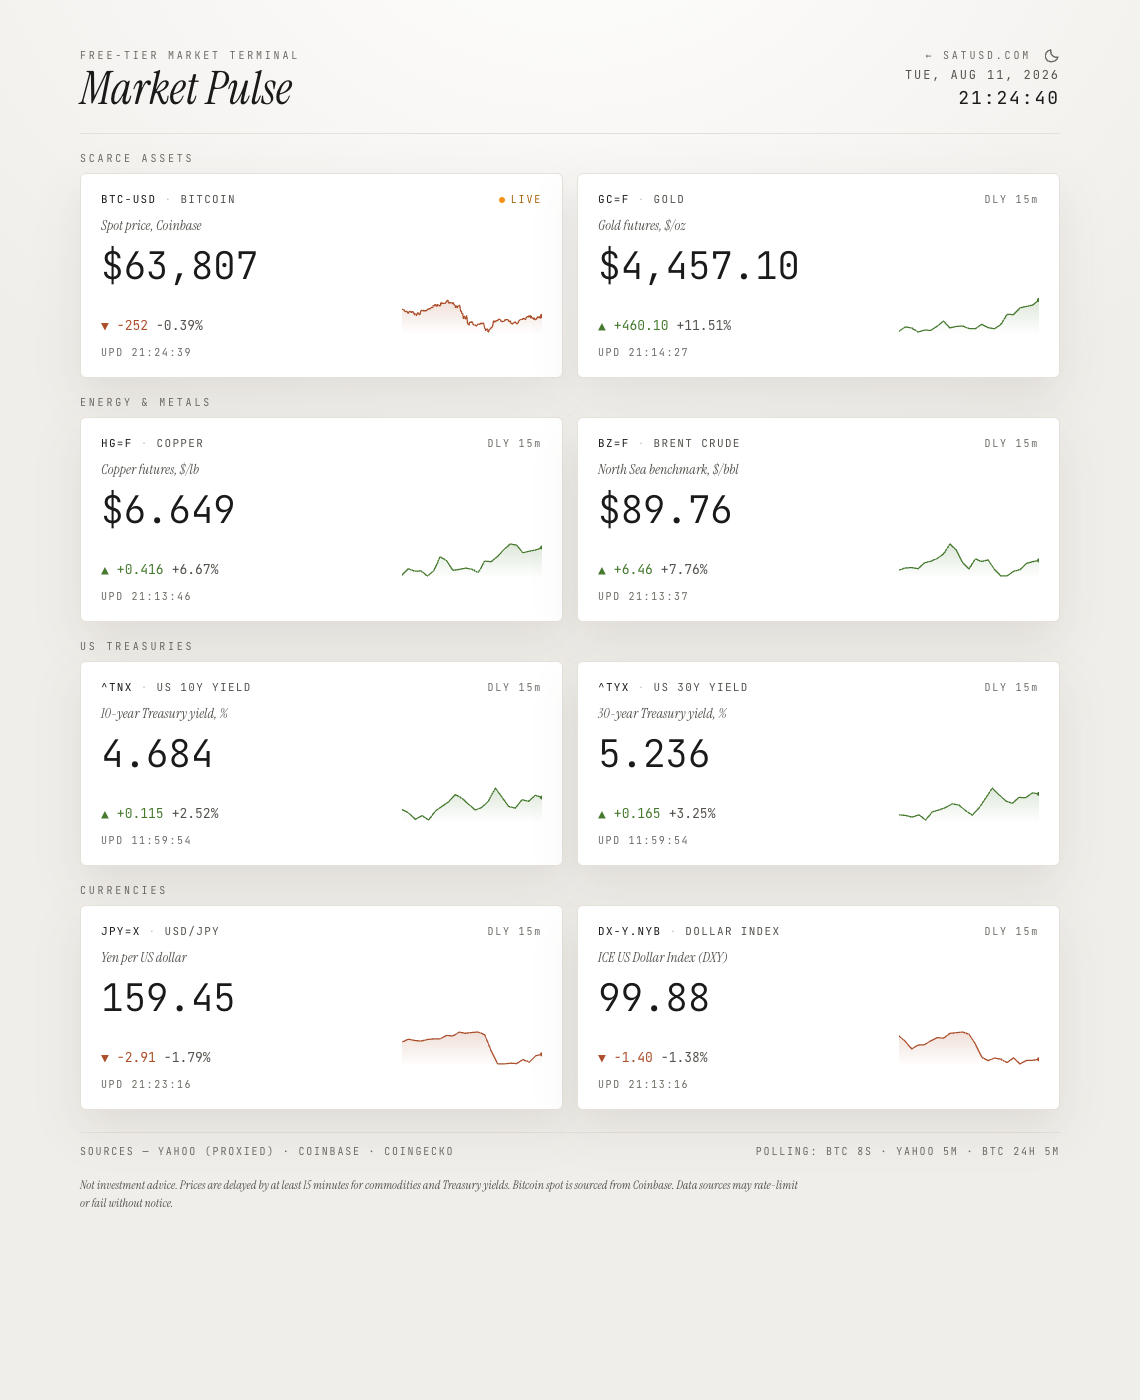
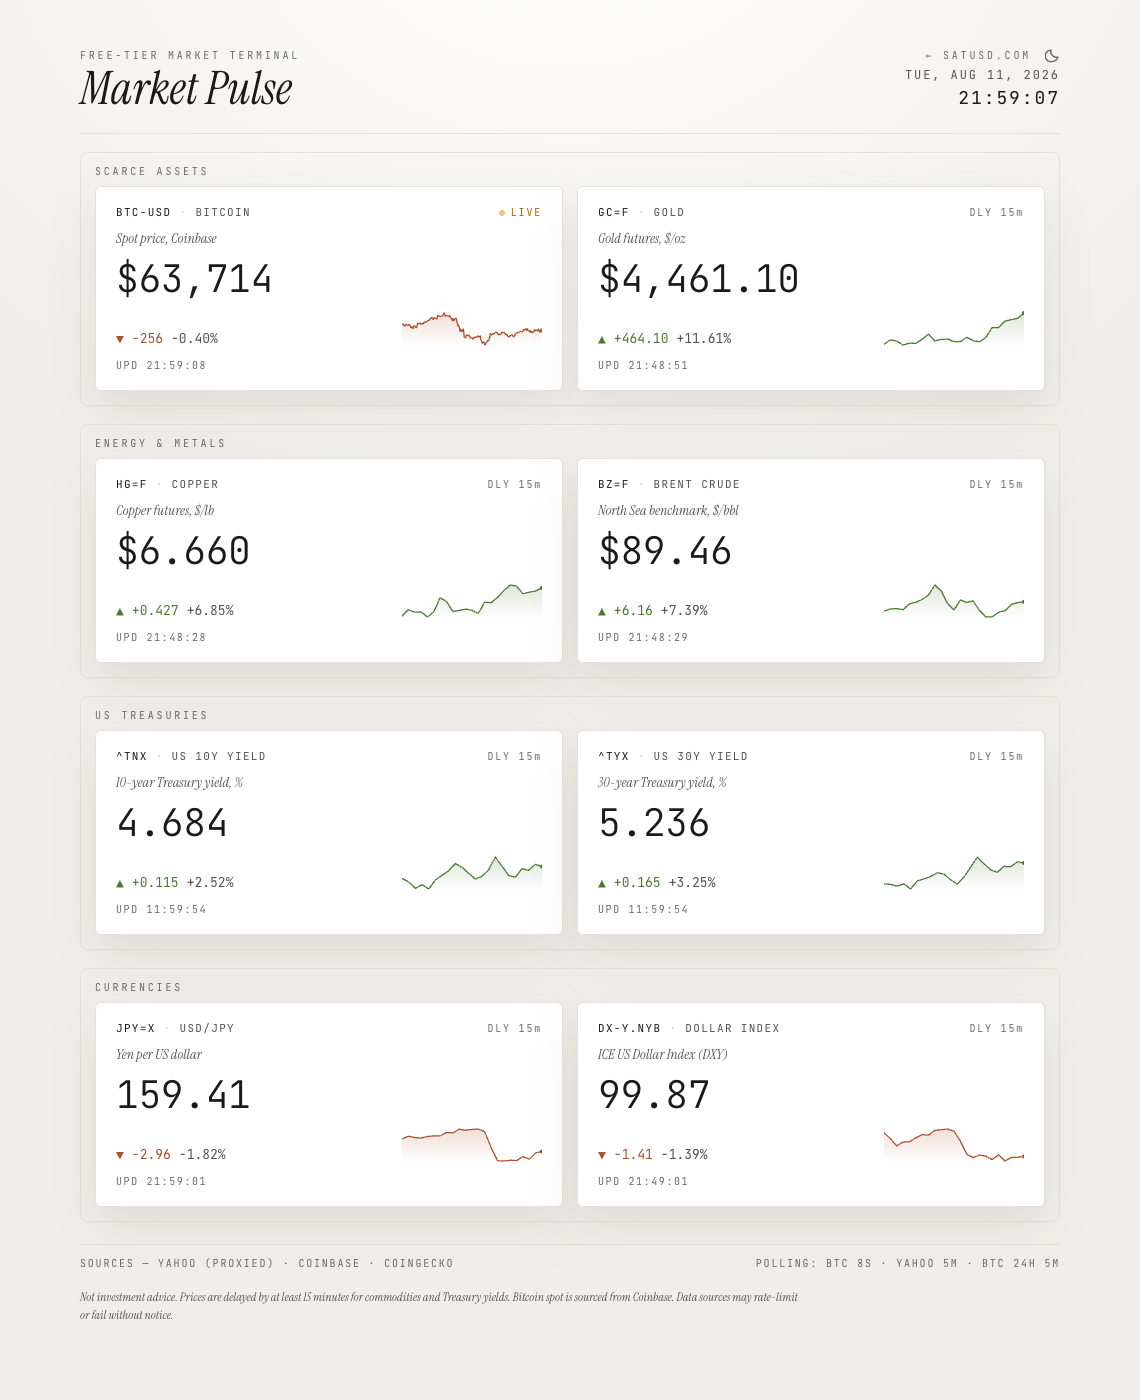
Frame each category section in a hairline box
The wide two-abreast layout put four tiles on one row with only the
floating labels separating categories; a 1px --border box (label inside,
themed like the tiles) makes each category boundary legible. Wide-mode
page padding and section margins tightened to absorb the added height --
re-verified no-scroll at 1574x798, 1440x815, and 1920x950, and no
horizontal overflow at 375px.

diff --git a/src/styles.css b/src/styles.css
@@ -93,6 +93,17 @@ body {
   max-width: 980px;
 }
 
+/* Each category sits in a hairline box so its grouping stays legible —
+   especially in the wide two-abreast layout, where four tiles share a
+   row and the section labels alone don't separate them. Lives in CSS
+   (not inline) because the padding tightens at the mobile breakpoint. */
+.section-box {
+  border: 1px solid var(--border);
+  border-radius: 8px;
+  padding: 12px 14px 14px;
+  margin-bottom: 18px;
+}
+
 /* Each section's tile grid: two columns on desktop, a single stacked
    column once the viewport is too narrow for two readable tiles. */
 .tile-grid {
@@ -112,9 +123,14 @@ body {
   .app-frame {
     max-width: 1520px;
   }
+  /* Tightened so the two boxed section rows still clear ~800px-tall
+     viewports without scrolling. */
   .app-shell {
-    padding-top: 36px;
-    padding-bottom: 36px;
+    padding-top: 24px;
+    padding-bottom: 24px;
+  }
+  .section-box {
+    margin-bottom: 14px;
   }
   .section-grid {
     display: grid;
@@ -126,6 +142,10 @@ body {
 @media (max-width: 640px) {
   .app-shell {
     padding: 28px 14px 40px;
+  }
+  /* Reclaim horizontal room for the tiles on narrow phones. */
+  .section-box {
+    padding: 10px;
   }
   .tile-grid {
     grid-template-columns: 1fr;

diff --git a/src/App.tsx b/src/App.tsx
@@ -133,7 +133,7 @@ function Section({
   children: ReactNode;
 }) {
   return (
-    <section style={{ marginBottom: 18 }}>
+    <section className="section-box">
       <div
         style={{
           fontSize: 10,

diff --git a/SPEC.md b/SPEC.md
@@ -207,9 +207,9 @@ Initial load: fire all fetches in parallel on mount. Don't await anything before
 ```
 
 - Centered container, max-width ~980px (stacked layout).
-- Four labeled sections (Scarce Assets, Energy & Metals, US Treasuries, Currencies), each a two-column grid of 2 tiles, gap ~14px.
+- Four labeled sections (Scarce Assets, Energy & Metals, US Treasuries, Currencies), each a two-column grid of 2 tiles, gap ~14px. Each section sits in a hairline box (`.section-box`: 1px `--border`, radius 8, ~12–14px padding, label inside) so category boundaries stay legible even when sections share a row in the wide layout.
 - Header above, source footer below.
-- **Responsive:** at ≤640px the grids collapse to a single column, page/tile padding tightens, and the title font scales with `clamp()`. At ≥1240px the container widens (max ~1520px) and the four sections flow **two-abreast** (`.section-grid` becomes a 2×2 grid: Scarce Assets | Energy & Metals, then US Treasuries | Currencies) so all eight tiles fit in one viewport height with no vertical scrolling on typical desktops (verified at 1440×900 and 1920×1080; sub-800px-tall laptops may still scroll slightly). Both breakpoints are implemented as CSS classes (`.tile-grid`, `.app-shell`, `.app-frame`, `.section-grid`, `.tile`) in `styles.css` rather than inline styles, since inline styles outrank media queries. Header eyebrow / title / source rows use `flex-wrap` to fold gracefully.
+- **Responsive:** at ≤640px the grids collapse to a single column, page/tile padding tightens, and the title font scales with `clamp()`. At ≥1240px the container widens (max ~1520px) and the four sections flow **two-abreast** (`.section-grid` becomes a 2×2 grid: Scarce Assets | Energy & Metals, then US Treasuries | Currencies) so all eight tiles fit in one viewport height with no vertical scrolling on typical desktops (verified at 1440×900 and 1920×1080; sub-800px-tall laptops may still scroll slightly). Both breakpoints are implemented as CSS classes (`.tile-grid`, `.app-shell`, `.app-frame`, `.section-grid`, `.section-box`, `.tile`) in `styles.css` rather than inline styles, since inline styles outrank media queries. Header eyebrow / title / source rows use `flex-wrap` to fold gracefully.
 
 ### 5.2 Tile contents (each tile)
 

diff --git a/CLAUDE.md b/CLAUDE.md
@@ -48,4 +48,4 @@ Static SPA, no backend. Eight tiles (BTC, Gold, Copper, Brent, 10Y, 30Y, USD/JPY
 
 Two themes (light default, dark opt-in), implemented as CSS custom properties in `src/styles.css` — `:root` is light, `:root[data-theme="dark"]` is dark (token table in SPEC.md §5.3). Surface/text/accent values are adopted verbatim from satusd.com's `style.css` (the `saubyk/satusd.com` repo) — keep the two files in sync when adjusting either. `src/lib/theme.ts` exports the tokens as `var(--…)` strings so inline styles theme-switch automatically; SVG colors must be applied via `style`, because presentation attributes don't resolve `var()`. Theme is resolved pre-paint by an inline script in `index.html` from `localStorage("theme")` — the same key satusd.com uses, so the preference is shared on the sub-route deploy; `ThemeToggle` flips `data-theme` on `<html>` and the `theme-color` meta. Two accent tiers: `--accent` is decorative-only (LIVE dot), `--accent-text` is contrast-safe for text in light mode.
 
-Components use inline styles, **except** anything responsive or theme-state-dependent (like the toggle's icon swap): inline styles outrank media queries, so the ≤640px collapse and the ≥1240px wide-desktop layout (sections two-abreast via `.section-grid` so all eight tiles fit one viewport without scrolling) live in CSS classes (`.tile-grid`, `.app-shell`, `.app-frame`, `.section-grid`, `.tile`) in `src/styles.css`. Put any new breakpoint-dependent styling there, not inline.
+Components use inline styles, **except** anything responsive or theme-state-dependent (like the toggle's icon swap): inline styles outrank media queries, so the ≤640px collapse and the ≥1240px wide-desktop layout (sections two-abreast via `.section-grid` so all eight tiles fit one viewport without scrolling) live in CSS classes (`.tile-grid`, `.app-shell`, `.app-frame`, `.section-grid`, `.section-box`, `.tile`) in `src/styles.css`. Put any new breakpoint-dependent styling there, not inline.

diff --git a/README.md b/README.md
@@ -57,9 +57,9 @@ The last good quote for each Yahoo tile is also persisted to `localStorage`, so 
 ## Layout
 
 - Centered, max-width 980px (stacked); widens to ~1520px on large desktops
-- 4 categorized sections (Scarce Assets, Energy & Metals, US Treasuries, Currencies), 2 tiles each
+- 4 categorized sections (Scarce Assets, Energy & Metals, US Treasuries, Currencies), 2 tiles each, each framed by a hairline box so category boundaries stay visible in the wide side-by-side layout
 - Header (clock + date + theme toggle), source/disclaimer footer
-- **Responsive:** each section is a two-column grid that collapses to a single stacked column at ≤640px (page/tile padding tightens, the title scales fluidly with `clamp`, readable down to ~320px). At ≥1240px the four sections flow two-abreast so all eight tiles fit on one screen with no scrolling. Both breakpoints live in `src/styles.css` (`.tile-grid`, `.app-shell`, `.app-frame`, `.section-grid`, `.tile`).
+- **Responsive:** each section is a two-column grid that collapses to a single stacked column at ≤640px (page/tile padding tightens, the title scales fluidly with `clamp`, readable down to ~320px). At ≥1240px the four sections flow two-abreast so all eight tiles fit on one screen with no scrolling. Both breakpoints live in `src/styles.css` (`.tile-grid`, `.app-shell`, `.app-frame`, `.section-grid`, `.section-box`, `.tile`).
 - Aesthetic target: refined Bloomberg terminal, not crypto-bro dashboard
 
 ## Theming
